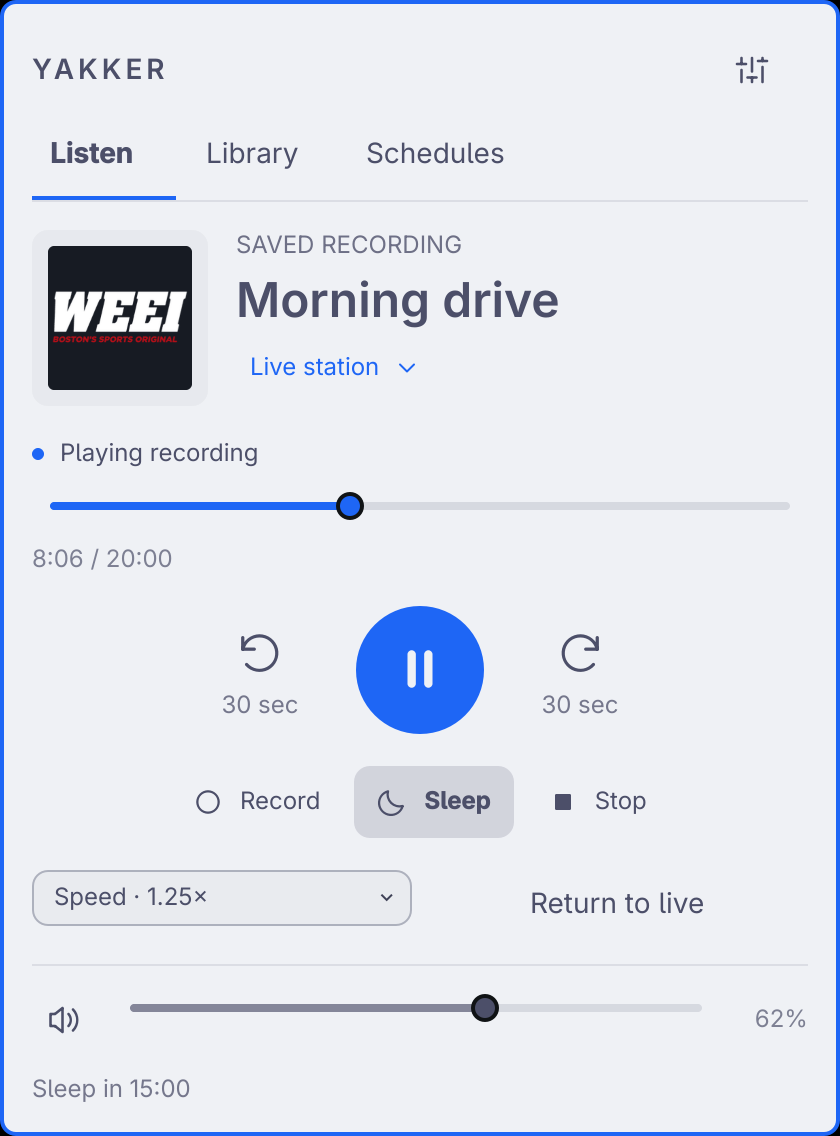
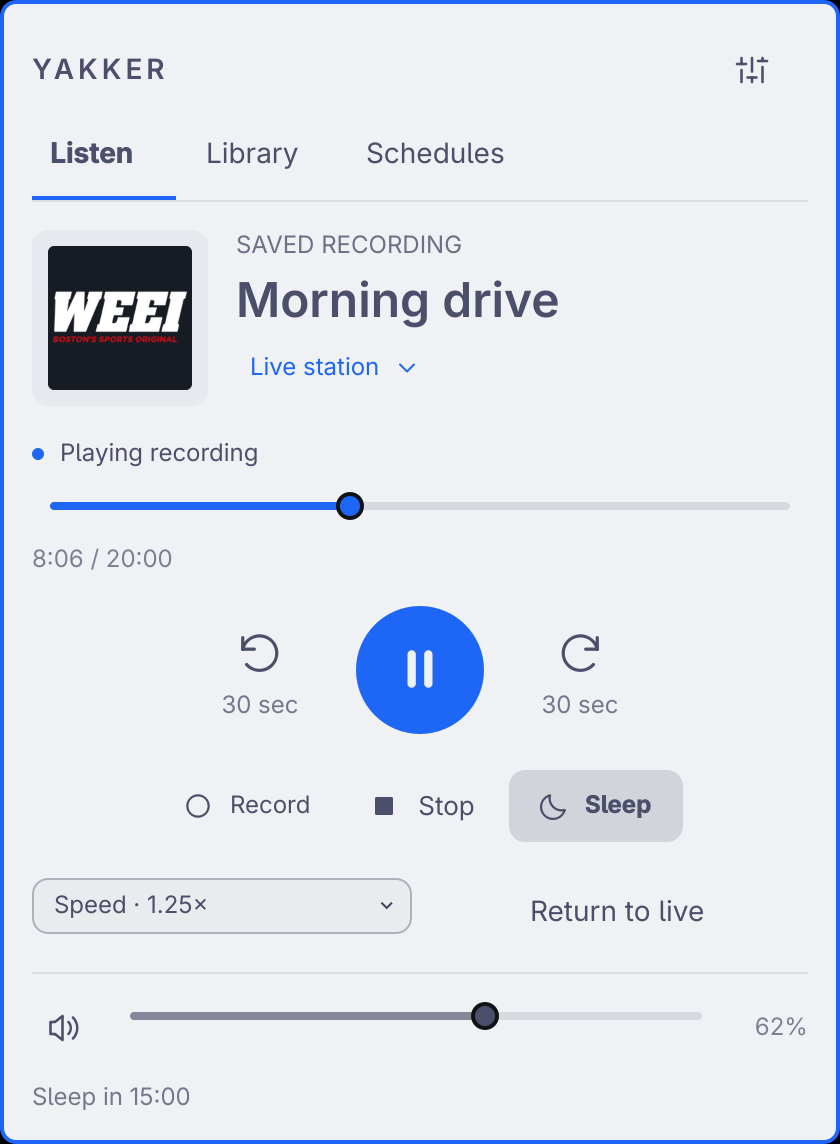
Center Stop below Pause and move Sleep to the right

diff --git a/Panel.qml b/Panel.qml
@@ -259,8 +259,8 @@ Ui.Panel {
       if (playButton.enabled) order.push(1)
       if (forwardButton.enabled) order.push(8)
       order.push(23)
-      if (sleepButton.enabled) order.push(19)
       if (stopButton.enabled) order.push(6)
+      if (sleepButton.enabled) order.push(19)
       if (speedPicker.visible) order.push(18)
       if (returnLiveButton.visible && returnLiveButton.enabled) order.push(16)
     }
@@ -1189,6 +1189,8 @@ Ui.Panel {
                 spacing: Style.space(6)
                 Radio.FocusButton {
                   id: recordNowButton
+                  width: Math.max(implicitWidth, sleepButton.implicitWidth)
+                  anchors.verticalCenter: parent.verticalCenter
                   iconSize: Style.space(16)
                   text: "Record"
                   iconName: "record"
@@ -1200,7 +1202,26 @@ Ui.Panel {
                   onClicked: root.recordNow()
                 }
                 Radio.FocusButton {
+                  id: stopButton
+                  iconSize: Style.space(18)
+                  iconName: "stop"
+                  text: "Stop"
+                  fontSize: Style.fontPx(1.083)
+                  verticalPadding: Style.space(8)
+                  tooltipText: "Stop listening" + (root.radio.playbackKind === "recording" ? "" : " and clear replay history")
+                  Accessible.role: Accessible.Button
+                  Accessible.name: tooltipText
+                  foreground: root.barForeground
+                  enabled: root.radio.wanted
+                  opacity: enabled ? 1 : 0.35
+                  hasCursor: root.virtualFocus && root.cursor === 6
+                  onHovered: hovered => { if (hovered) { root.keyboardNavigation = false; root.cursor = 6 } }
+                  onClicked: root.radio.stop()
+                }
+                Radio.FocusButton {
                   id: sleepButton
+                  width: Math.max(recordNowButton.implicitWidth, implicitWidth)
+                  anchors.verticalCenter: parent.verticalCenter
                   iconSize: Style.space(16)
                   iconName: "moon" // nf-md-timer_outline
                   text: "Sleep"
@@ -1279,23 +1300,6 @@ Ui.Panel {
                       Radio.FocusButton { id: sleepOff; visible: root.radio.sleepRemaining > 0; text: "Cancel timer"; fontSize: Style.fontPx(1); horizontalPadding: Style.space(6); foreground: Qt.alpha(root.barForeground, 0.8); focusable: true; onClicked: { root.radio.setSleepTimer(0); sleepPopup.close() } }
                     }
                   }
-                }
-
-                Radio.FocusButton {
-                  id: stopButton
-                  iconSize: Style.space(16)
-                  iconName: "stop"
-                  text: "Stop"
-                  fontSize: Style.fontPx(1)
-                  tooltipText: "Stop listening" + (root.radio.playbackKind === "recording" ? "" : " and clear replay history")
-                  Accessible.role: Accessible.Button
-                  Accessible.name: tooltipText
-                  foreground: root.barForeground
-                  enabled: root.radio.wanted
-                  opacity: enabled ? 1 : 0.35
-                  hasCursor: root.virtualFocus && root.cursor === 6
-                  onHovered: hovered => { if (hovered) { root.keyboardNavigation = false; root.cursor = 6 } }
-                  onClicked: root.radio.stop()
                 }
               }
               Row {
